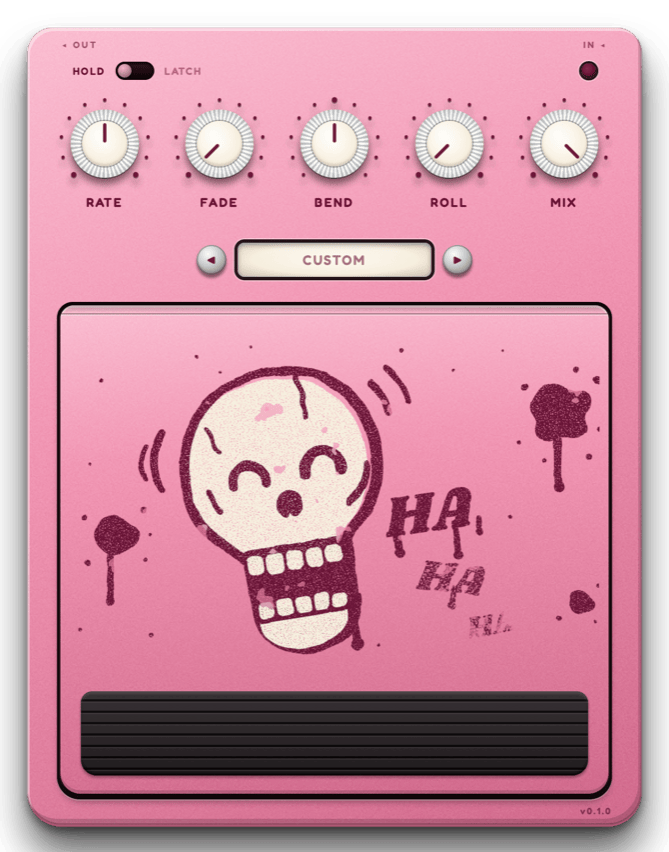
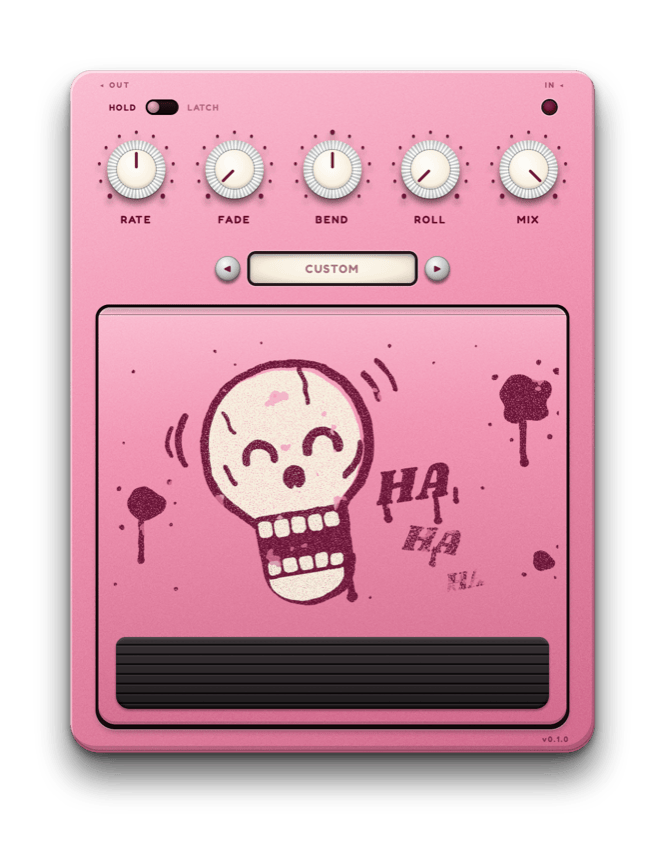
Leave room in screenshots for the drop shadow
On a transparent background the object's drop shadow was cut off at
the window's edge. The capture now pads the window by 48 px on the top
and sides and 80 px below, and lets html and body overflow so the
shadow isn't clipped.

Claude-Session: https://claude.ai/code/session_01M6vpxR81VaPY9T4oUmhAa4

diff --git a/README.md b/README.md
@@ -1,6 +1,6 @@
 # Ha Ha Ha
 
-<img src="docs/hahaha.png" width="334" alt="Ha Ha Ha, a bubblegum-pink pedal printed in maroon, with a Hold/Latch toggle and a red LED over five cream knobs with chrome skirts (Rate, Fade, Bend, Roll, Mix), a cream preset window between chrome arrow buttons, and a wide hinged treadle printed with a laughing skull spilling HA HA HA above a ribbed rubber pad">
+<img src="docs/hahaha.png" width="332" alt="Ha Ha Ha, a bubblegum-pink pedal printed in maroon, with a Hold/Latch toggle and a red LED over five cream knobs with chrome skirts (Rate, Fade, Bend, Roll, Mix), a cream preset window between chrome arrow buttons, and a wide hinged treadle printed with a laughing skull spilling HA HA HA above a ribbed rubber pad">
 
 A tempo-synced repeater pedal, as a VST3 and CLAP plugin for macOS and
 Windows. Hold the treadle and it grabs the last beat division you played
